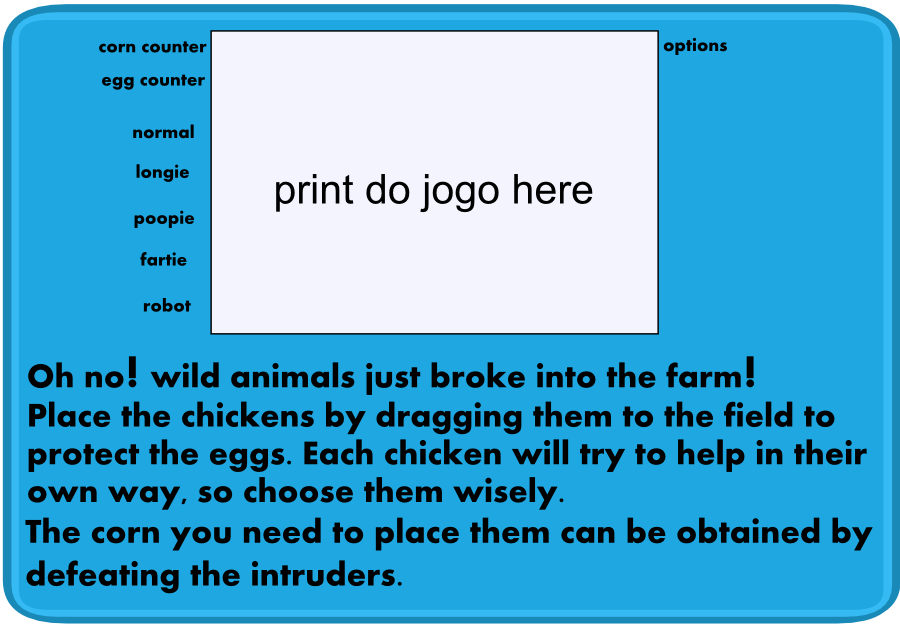
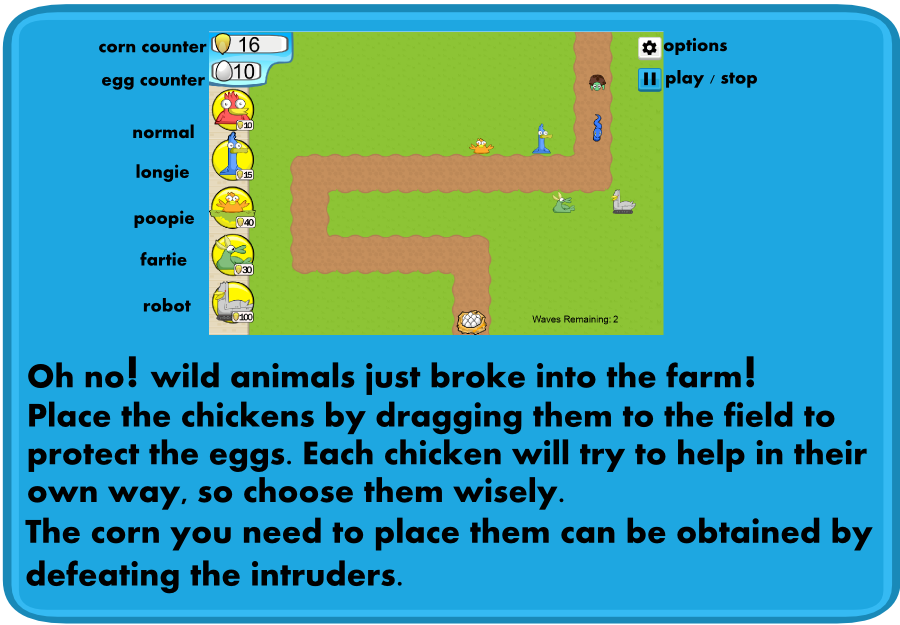
glasses

Changed region(s): [[0.2178, 0.0304, 0.84, 0.5472]]

diff --git a/src/game/scene/Chicken.js b/src/game/scene/Chicken.js
@@ -9,7 +9,9 @@ var Chicken = function (Xtile,Ytile,Index,gameContext)
     this.lastAttack = 0;
     this.attackSpeed = 25;
     this.damage = 12;
-    
+    this.glassesExtraHeight = -15;
+    this.glassesExtraWidth = 7;
+    this.glasses = "oculos";
     this.sprite = gameContext.add.sprite((Xtile*64),((Ytile*64+5)),'normalP');
     //console.log(this);
     this.rangeSprite = gameContext.add.graphics(0,0);
@@ -103,15 +105,25 @@ Chicken.prototype =
 
         this.upgradeRangeButton = this.gameContext.add.sprite(-200,-200,'oculos');
         this.upgradeRangeButton.inputEnabled = true; 
-        this.upgradeRangeButton.events.onInputDown.add(function(){upRange(this)},this); 
+        this.upgradeRangeButton.events.onInputDown.add(function()
+        {
+            
+            upRange(this);
+        },this); 
 
         this.upgradeDamageButton = this.gameContext.add.sprite(-200,-200,'super');
         this.upgradeDamageButton.inputEnabled = true; 
-        this.upgradeDamageButton.events.onInputDown.add(function(){upDamage(this)},this); 
+        this.upgradeDamageButton.events.onInputDown.add(function()
+        {
+            upDamage(this);
+        },this); 
 
         this.upgradeSpeedButton = this.gameContext.add.sprite(-200,-200,'speed');
         this.upgradeSpeedButton.inputEnabled = true; 
-        this.upgradeSpeedButton.events.onInputDown.add(function(){upSpeed(this)},this); 
+        this.upgradeSpeedButton.events.onInputDown.add(function()
+        {
+            upSpeed(this)
+        },this); 
     },
     showUpgradeWindow: function()
     {
@@ -168,7 +180,9 @@ var AOEChicken = function (Xtile,Ytile,Index,gameContext)
     this.lastAttack = 0;
     this.attackSpeed = 50;
     this.damage = 10;
-
+    this.glassesExtraHeight = -15;
+    this.glassesExtraWidth = 7;
+    
     this.sprite = gameContext.add.sprite((Xtile*64),((Ytile*64+5)),'normalP');
     //console.log(this);
     this.rangeSprite = gameContext.add.graphics(0,0);
@@ -203,9 +217,10 @@ var Longie = function (Xtile,Ytile,Index,gameContext)
     this.lastAttack = 0;
     this.attackSpeed = 25;
     this.damage = 8;
-
+    this.glassesExtraHeight = 10;
+    this.glassesExtraWidth = 10;
     this.sprite = gameContext.add.sprite(Xtile*64,(Ytile*64-31),'longieP');
-
+    this.glasses = "oculos";
     this.rangeSprite = gameContext.add.graphics(0,0);
 
     this.setSprite();
@@ -236,7 +251,9 @@ var Poopie = function (Xtile,Ytile,Index,gameContext)
     this.attackSpeed = 30;
     this.damage = 10;
     this.explosion;
-
+    this.glassesExtraHeight = -15;
+    this.glassesExtraWidth = 5;
+    this.glasses = "oculos";
     this.sprite = gameContext.add.sprite(Xtile*64-8,(Ytile*64+15),'poopieP');
     this.rangeSprite = gameContext.add.graphics(0,0);
 
@@ -285,7 +302,10 @@ var Fartie = function (Xtile,Ytile,Index,gameContext)
     this.explosionSound = this.gameContext.add.audio('explosion_sound');
     this.sprite = gameContext.add.sprite(Xtile*64,(Ytile*64-8),'fartieP');
     this.rangeSprite = gameContext.add.graphics(0,0);
-
+    this.glassesExtraHeight = -7;
+    this.glassesExtraWidth = 17;
+    this.glasses = "monoculo";
+    
     this.setSprite();
     this.setRange();
     this.cleanRange();
@@ -334,7 +354,10 @@ var Robot = function (Xtile,Ytile,Index,gameContext)
 
     this.sprite = gameContext.add.sprite(Xtile*64-8,(Ytile*64-14),'robotP');
     this.rangeSprite = gameContext.add.graphics(0,0);
-
+    this.glassesExtraHeight = 7;
+    this.glassesExtraWidth = 7;
+    this.glasses = "monoculo";
+    
     this.setSprite();
     this.setRange();
     this.cleanRange();
@@ -375,6 +398,7 @@ function UpgradeRange()
 {
     if(this.rangeUpgraded === false )
     {
+        this.oculus = this.gameContext.add.sprite(this.x*64+this.glassesExtraWidth,this.y*64-this.glassesExtraHeight,this.glasses.toString());
         this.range *= 1.2;
         this.rangeSprite.destroy();
         this.rangeSprite = this.gameContext.add.graphics(0,0);

diff --git a/src/game/scene/Preloader.js b/src/game/scene/Preloader.js
@@ -24,6 +24,7 @@ BasicGame.Preloader.prototype = {
         this.load.image('introPlayBtn','assets/'+BasicGame.screen+"/startButton.png");
         this.load.image('introPlayBtnPressed','assets/'+BasicGame.screen+"/startButtonPressed.png");
         this.load.image('title','assets/'+BasicGame.screen+"/title.png");
+        this.load.image('intro_longie','assets/'+BasicGame.screen+"/intro_longie.png");
         
         // main menu
         this.load.image('menuBg','assets/'+BasicGame.screen+"/fazenda.png");
@@ -96,6 +97,7 @@ BasicGame.Preloader.prototype = {
 		this.load.image('playButtonPressed','assets/'+BasicGame.screen+"/play_ingame_button_pressed.png");
 
         this.load.image('oculos','assets/'+BasicGame.screen+"/oculos.png");
+        this.load.image('monoculo','assets/'+BasicGame.screen+"/monoculo.png");
         this.load.image('oculosBtn','assets/'+BasicGame.screen+"/oculosButton.png");
         this.load.image('super','assets/'+BasicGame.screen+"/super.png");
         this.load.image('superBtn','assets/'+BasicGame.screen+"/superButton.png");

diff --git a/src/game/scene/Intro.js b/src/game/scene/Intro.js
@@ -17,10 +17,12 @@ BasicGame.Intro.prototype =
         this.startSounds();
         this.add.sprite(0,0,'introBg');
         
-        this.add.sprite(BasicGame.convertWidth(200),BasicGame.convertHeight(50),'title');
-        
+        var title = this.add.sprite(BasicGame.convertWidth(200),BasicGame.convertHeight(-300),'title');
+        this.game.add.tween(title).to({y:BasicGame.convertHeight(50)}, BasicGame.convertHeight(100), Phaser.Easing.Bounce.Out, true);
         button = this.add.sprite(BasicGame.viewX,BasicGame.viewY,'introPlayBtn');
 		
+        var chicken = this.add.sprite(BasicGame.convertWidth(0),BasicGame.convertHeight(1000),'intro_longie');
+        this.game.add.tween(chicken).to({y:BasicGame.convertHeight(10)}, BasicGame.convertHeight(100), Phaser.Easing.Linear.NONE, true);
 		//Align to bottom right edge
 		button.position.x = BasicGame.convertWidth(250);
 		button.position.y = BasicGame.convertHeight(250);
